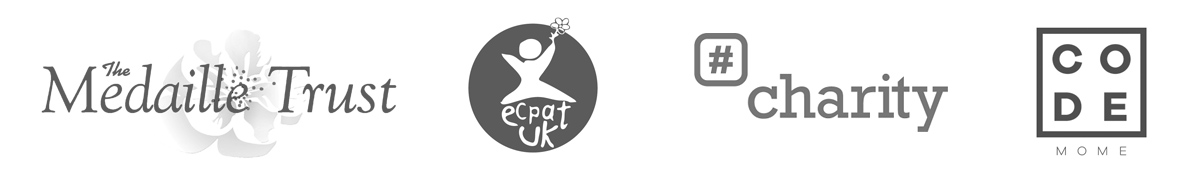
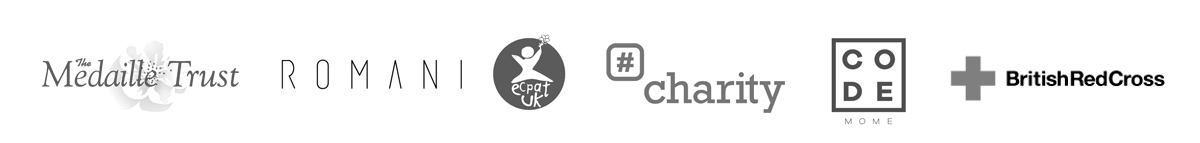
resources + listaelemek

Changed region(s): [[0.0308, 0.0839, 0.9867, 0.8392], [0.8633, 0.7832, 0.925, 0.8392], [0.6783, 0.8112, 0.74, 0.8671]]

diff --git a/html/page_resources.html b/html/page_resources.html
@@ -45,27 +45,26 @@
 		<section class="container">
 			<!-- content -->
 			<article class="container_item">
-				<h1>Resources</h1>
+				<h1>Partners</h1>
 
-				<div class="partners">
-
-
-					<h2>Partners</h2>
 					<p>SocialFelt partners with different NGOs and institutions to provide psychosocial support for traumatized adolescents and women.Our partners include:</p>
 
 					<ul>
 						<li><a target="blank" href="http://www.medaille.co.uk/">Medaille Trust</a></li>
 						<li><a target="blank" href="http://www.ecpat.org.uk/">ECPAT UK</a></li>
+						<li><a target="blank" href="http://www.redcross.org.uk">British Red Cross</a></li>
 					</ul>
 
+				</article>
+			<article class="container_item">
+				<h1>Supporters</h1>
 
-
-					<h2>Supporters</h2>
 					<p>We appreciate all the support we receive in any form: donation, supplies and skills offered to help our project growing and enabling us to reach out more traumatized adolescents and women. We would especially like to say ‘Thank you!’ to the following individuals, companies, businesses, organizations, trusts and institutions:</p>
 
 					<ul>
 						<li><a target="blank" href="http://hashtagcharity.org/">Hashtagcharity</a></li>
 						<li><a target="blank" href="http://momecode.mome.hu/">MOME CODE</a></li>
+						<li><a target="blank" href="http://romani.hu/en/">Romani Design</a></li>
 					</ul>
 
 				<figure class="resources_logo">
